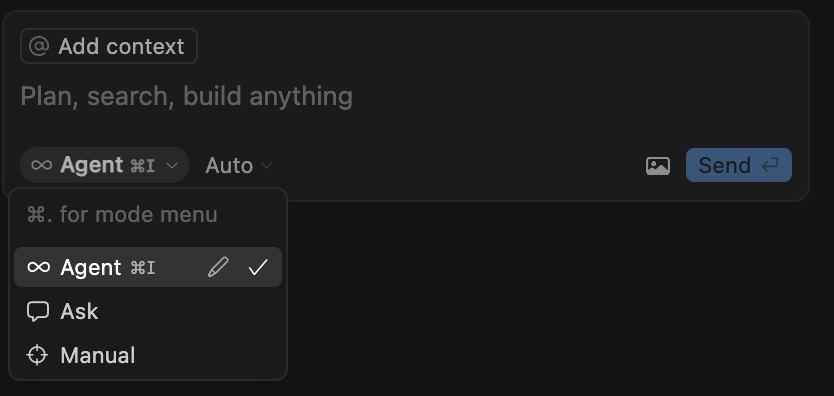
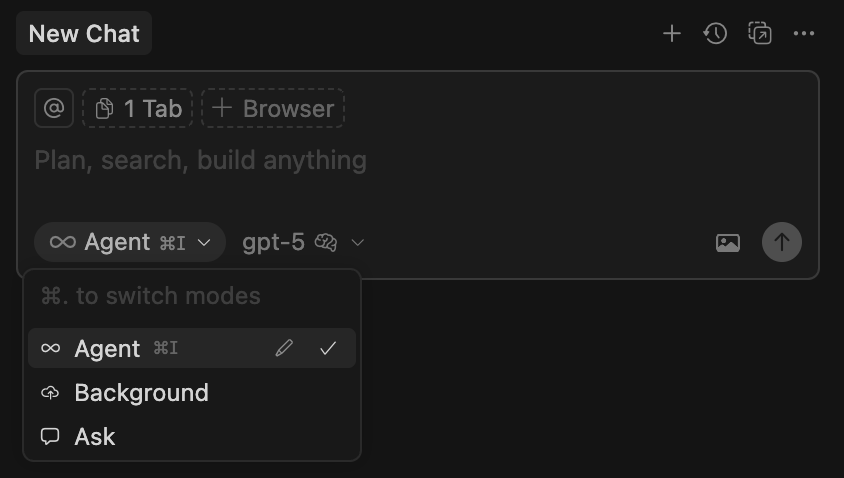
New slides (#106)

diff --git a/docs/index.html b/docs/index.html
@@ -198,6 +198,10 @@
                         <small><strong>Source: </strong><a href="https://www.infoq.com/articles/architecture-trends-2025/"
                             target="_blank">https://www.infoq.com/articles/architecture-trends-2025/</a></small>
                     </section>
+                    <section>
+                        <img src="images/context/gartner-ai-2025.webp" width="50%" />
+                        <h2>Really? 😳 🤔</h2>
+                    </section>
                     <!--
 					<section>
 						<img src="images/context/infoq-ai-trends.webp" width="60%" />
@@ -309,7 +313,7 @@
 									<li>Tab model</li>
                                     <li>Models</li>
 									<li>Cursor rules</li>
-                                    <li>Modes (Agent, Ask, Manual)</li>
+                                    <li>Modes (Agent, Ask & Background)</li>
 								</ul>
                             </li>
                             <li>Data pipelines features
@@ -345,7 +349,7 @@
 					<section>
 						<h3>Models</h3>
                         <p>
-                            Cursor provides access to main Commercial LLMs
+                            Cursor provides access to latest Commercial LLMs
                         </p>
 						<img src="images/review/review-cursor-models2.png" width="30%" /><br />
 						<small><strong>Source: </strong><a href="https://docs.cursor.com/settings/models"
@@ -399,7 +403,7 @@
 								jbang catalog list jabrena
 
 								jbang setup@jabrena init \
-        --cursor https://github.com/jabrena/cursor-rules-java
+                                --cursor https://github.com/jabrena/cursor-rules-java
 							</code>
 						</pre>
                         <p>
@@ -411,12 +415,12 @@
 					</section>
 					<section>
 						<h3>Modes</h3>
-						<img src="images/review/review-cursor-modes.png" width="60%" />
+						<img src="images/review/review-cursor-modes.png" width="50%" />
                         <p>
                             Natural language interface for exploring, editing, and managing code with contextual AI assistance in Chat mode.
                         </p>
-                        <small><strong>Source: </strong><a href="https://docs.cursor.com/chat/overview"
-							target="_blank">https://docs.cursor.com/chat/overview</a></small>
+                        <small><strong>Source: </strong><a href="https://cursor.com/docs/agent/modes"
+							target="_blank">https://cursor.com/docs/agent/modes</a></small>
 					</section>
 					<section>
 						<h3>Ask Mode</h3>
@@ -480,6 +484,28 @@
                     <section>
 						<img src="images/demo.png" width="80%" />
 					</section>
+                    <section>
+                        <h3>Background agents</h3>
+                        <p>
+                            Using the Background Agents, you can run tasks in the background.
+                            Agent autonomously explores your codebase, edits multiple files, runs commands, and fixes errors to complete your requests.
+                        </p>
+                        <small><strong>Source: </strong><a href="https://cursor.com/docs/agent/modes#agent"
+                            target="_blank">https://cursor.com/docs/agent/modes#agent</a></small>
+                    </section>
+                    <section>
+                        <h3>Background</h3>
+                        <img src="images/review/review-cursor-mode-background.png" width="80%" />
+                        <small><strong>Source: </strong><a href="https://cursor.com/agents"
+                            target="_blank">https://cursor.com/agents</a></small>
+                    </section>
+                    <section>
+						<img src="images/demo.png" width="80%" />
+					</section>
+                    <section>
+                        <h3>Data pipelines features</h3>
+                        <img src="images/demo.png" width="80%" />
+                    </section>
                 </section>
 
                 <section>
@@ -493,7 +519,7 @@
                                 --url https://jabrena.github.io/101-cursor/
                         </code>
                     </pre>
-                    <img src="images/qr-code.png" width="45%" />
+                    <img src="images/qr-code.png" width="40%" />
                 </section>
 				<section>
 					<h1>🙏 🙏 🙏</h1>
